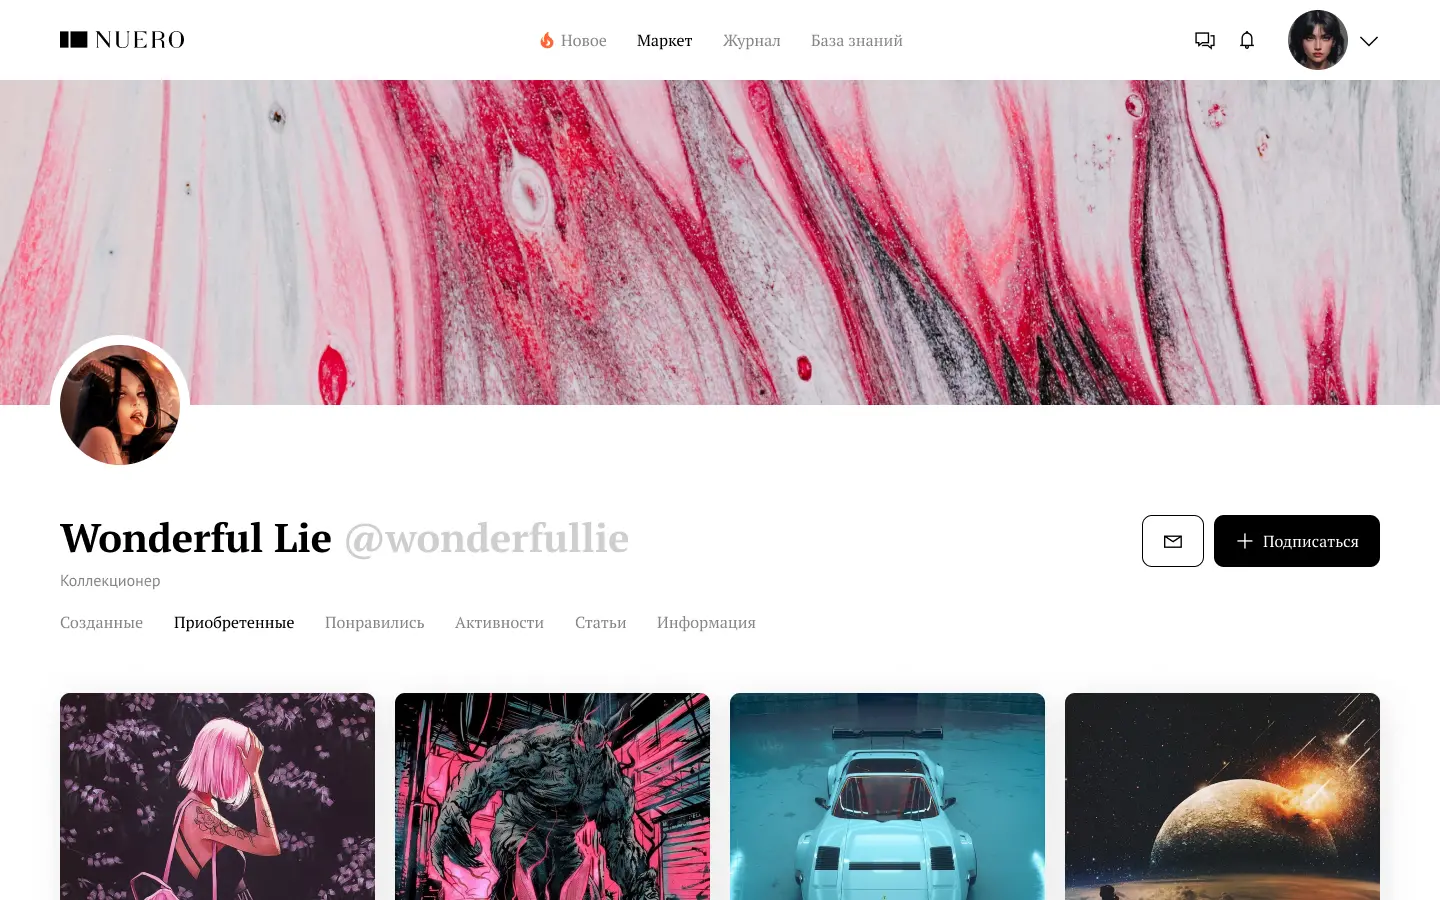
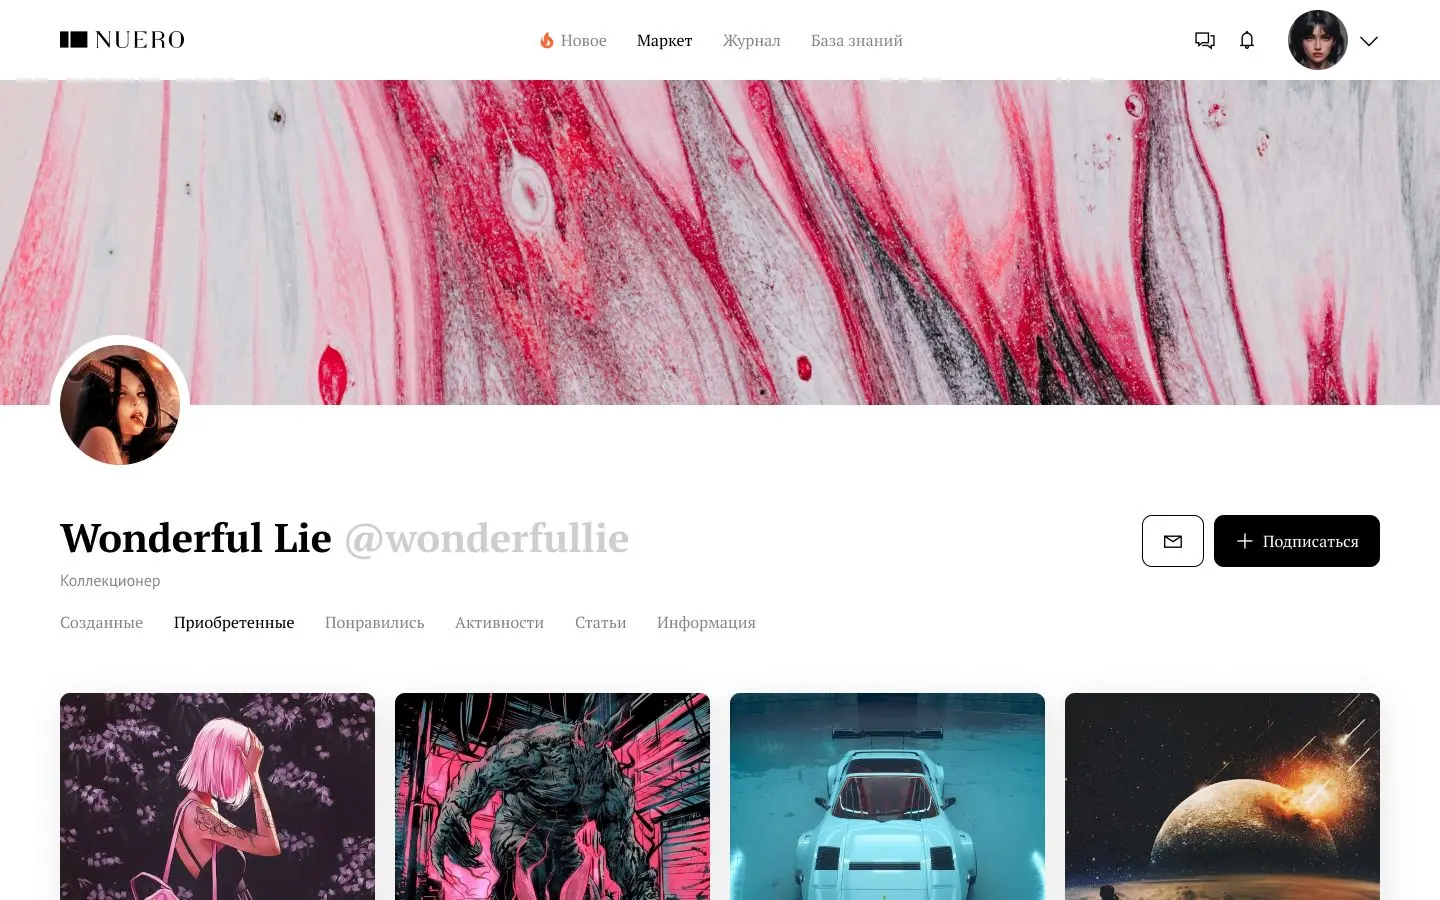
images minified

diff --git a/index.html b/index.html
@@ -6,7 +6,7 @@
 	<meta charset="UTF-8" />
 	<meta name="format-detection" content="telephone=no" />
 	<!-- <style>body{opacity: 0;}</style> -->
-	<link rel="stylesheet" href="css/style.min.css?_v=20220416145540" />
+	<link rel="stylesheet" href="css/style.min.css?_v=20220416151254" />
 	<link rel="shortcut icon" href="favicon.ico" />
 	<!-- <meta name="robots" content="noindex, nofollow"> -->
 	<meta name="viewport" content="width=device-width, initial-scale=1.0" />
@@ -189,7 +189,7 @@
 									<div class="couple-images">
 										<div class="couple-images__inner">
 											<div class="couple-images__big-image">
-												<picture><source srcset="img/nuero/hero/01-1.webp" type="image/webp"><img src="img/nuero/hero/01-1.png" alt="Nuero art page desktop" /></picture>
+												<picture><source srcset="img/nuero/hero/01-1.webp" type="image/webp"><img src="img/nuero/hero/01-1.jpg" alt="Nuero art page desktop" /></picture>
 											</div>
 											<div class="couple-images__small-image">
 												<picture><source srcset="img/nuero/hero/01-2.webp" type="image/webp"><img src="img/nuero/hero/01-2.png" alt="Nuero art page mobile" /></picture>
@@ -201,7 +201,7 @@
 									<div class="couple-images">
 										<div class="couple-images__inner">
 											<div class="couple-images__big-image">
-												<picture><source data-srcset="img/nuero/hero/02-1.webp" type="image/webp"><img class="lazyload" data-src="img/nuero/hero/02-1.png" loading="lazy" alt="Nuero art page desktop" /></picture>
+												<picture><source data-srcset="img/nuero/hero/02-1.webp" type="image/webp"><img class="lazyload" data-src="img/nuero/hero/02-1.jpg" loading="lazy" alt="Nuero art page desktop" /></picture>
 											</div>
 											<div class="couple-images__small-image">
 												<picture><source data-srcset="img/nuero/hero/02-2.webp" type="image/webp"><img class="lazyload" data-src="img/nuero/hero/02-2.png" loading="lazy" alt="Nuero art page mobile" /></picture>
@@ -213,7 +213,7 @@
 									<div class="couple-images">
 										<div class="couple-images__inner">
 											<div class="couple-images__big-image">
-												<picture><source data-srcset="img/nuero/hero/03-1.webp" type="image/webp"><img class="lazyload" data-src="img/nuero/hero/03-1.png" loading="lazy" alt="Nuero art page desktop" /></picture>
+												<picture><source data-srcset="img/nuero/hero/03-1.webp" type="image/webp"><img class="lazyload" data-src="img/nuero/hero/03-1.jpg" loading="lazy" alt="Nuero art page desktop" /></picture>
 											</div>
 											<div class="couple-images__small-image">
 												<picture><source data-srcset="img/nuero/hero/03-2.webp" type="image/webp"><img class="lazyload" data-src="img/nuero/hero/03-2.png" loading="lazy" alt="Nuero art page mobile" /></picture>
@@ -225,7 +225,7 @@
 									<div class="couple-images">
 										<div class="couple-images__inner">
 											<div class="couple-images__big-image">
-												<picture><source data-srcset="img/nuero/hero/04-1.webp" type="image/webp"><img class="lazyload" data-src="img/nuero/hero/04-1.png" loading="lazy" alt="Nuero art page desktop" /></picture>
+												<picture><source data-srcset="img/nuero/hero/04-1.webp" type="image/webp"><img class="lazyload" data-src="img/nuero/hero/04-1.jpg" loading="lazy" alt="Nuero art page desktop" /></picture>
 											</div>
 											<div class="couple-images__small-image">
 												<picture><source data-srcset="img/nuero/hero/04-2.webp" type="image/webp"><img class="lazyload" data-src="img/nuero/hero/04-2.png" loading="lazy" alt="Nuero art page mobile" /></picture>
@@ -237,7 +237,7 @@
 									<div class="couple-images">
 										<div class="couple-images__inner">
 											<div class="couple-images__big-image">
-												<picture><source data-srcset="img/nuero/hero/05-1.webp" type="image/webp"><img class="lazyload" data-src="img/nuero/hero/05-1.png" loading="lazy" alt="Nuero art page desktop" /></picture>
+												<picture><source data-srcset="img/nuero/hero/05-1.webp" type="image/webp"><img class="lazyload" data-src="img/nuero/hero/05-1.jpg" loading="lazy" alt="Nuero art page desktop" /></picture>
 											</div>
 											<div class="couple-images__small-image">
 												<picture><source data-srcset="img/nuero/hero/05-2.webp" type="image/webp"><img class="lazyload" data-src="img/nuero/hero/05-2.png" loading="lazy" alt="Nuero art page mobile" /></picture>
@@ -249,7 +249,7 @@
 									<div class="couple-images">
 										<div class="couple-images__inner">
 											<div class="couple-images__big-image">
-												<picture><source data-srcset="img/nuero/hero/06-1.webp" type="image/webp"><img class="lazyload" data-src="img/nuero/hero/06-1.png" loading="lazy" alt="Nuero art page desktop" /></picture>
+												<picture><source data-srcset="img/nuero/hero/06-1.webp" type="image/webp"><img class="lazyload" data-src="img/nuero/hero/06-1.jpg" loading="lazy" alt="Nuero art page desktop" /></picture>
 											</div>
 											<div class="couple-images__small-image">
 												<picture><source data-srcset="img/nuero/hero/06-2.webp" type="image/webp"><img class="lazyload" data-src="img/nuero/hero/06-2.png" loading="lazy" alt="Nuero art page mobile" /></picture>
@@ -634,7 +634,7 @@
 			</div>
 		</footer>
 	</div>
-	<script src="js/app.min.js?_v=20220416145540"></script>
+	<script src="js/app.min.js?_v=20220416151254"></script>
 </body>
 
 </html>
